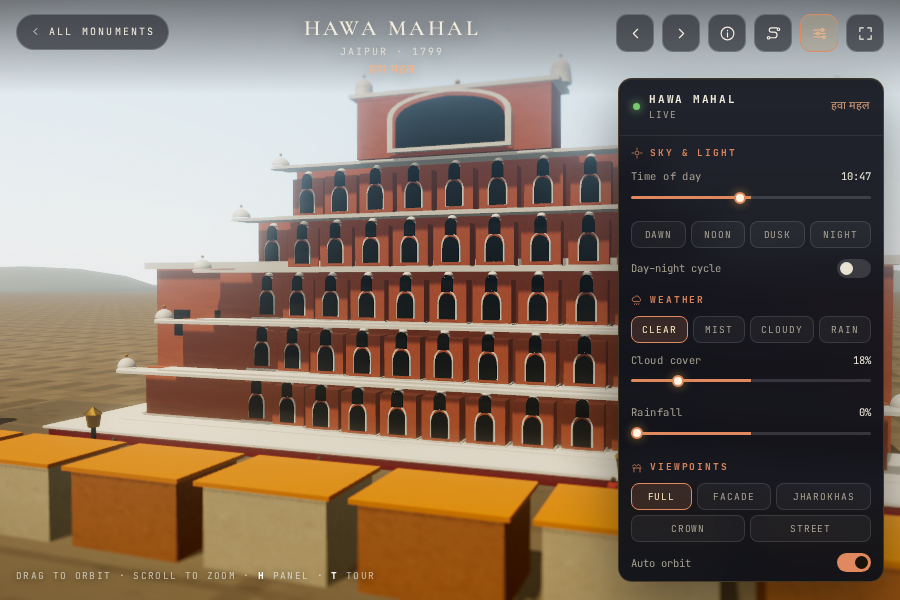
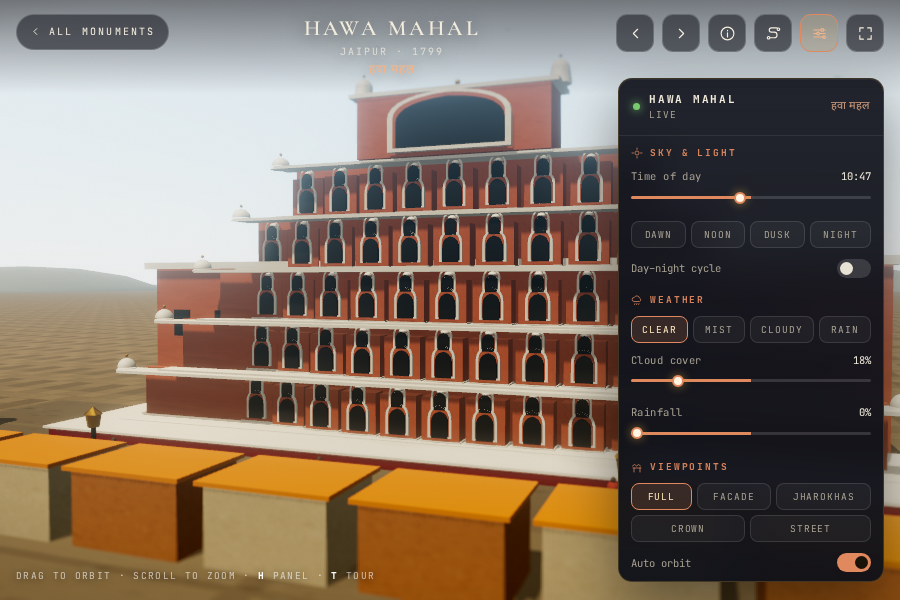
Lotus petals overlap, Somnath stone, Hawa surrounds
Lotus — petals widened to 2.75 / 2.45 / 2.10 m half-width so the three rings
overlap into a closed shell instead of standing apart, and the page is lit at
11:24 so the marble reads white rather than cream.

Somnath — the stone was sandstoneBuff under a warm key, which read as brick
red. Now granite with plasterWhite trim and basaltDark base, lit at 10:36: a
grey-brown Deccan spire, which is what the building is.

Hawa Mahal — white marble surrounds on both rows of openings, so the facade
reads as rows of arched windows in white trim, the lacework the building is
known for. Camera pulled back to hold the full 42 m screen.

Changed region(s): [[0.2489, 0.27, 0.6844, 0.75]]

diff --git a/assets/js/monuments/hawa-mahal.js b/assets/js/monuments/hawa-mahal.js
@@ -10,11 +10,11 @@ export default {
   bounds: 46,
   minDist: 12,
   maxDist: 180,
-  home: { pos: [12, 9, 32], target: [0, 8, -2], fov: 46 },
+  home: { pos: [4, 11, 50], target: [0, 9, -2], fov: 46 },
   ground: { texture: 'paving', size: 2400, color: 0xc8b79c },
   views: [
-    { name: 'Full', pos: [12, 9, 32], target: [0, 8, -2] },
-    { name: 'Facade', pos: [0, 8, 30], target: [0, 8, -2] },
+    { name: 'Full', pos: [4, 11, 50], target: [0, 9, -2] },
+    { name: 'Facade', pos: [0, 9, 46], target: [0, 9, -2] },
     { name: 'Jharokhas', pos: [7, 13, 16], target: [2, 12, 2] },
     { name: 'Crown', pos: [6, 21, 18], target: [0, 17, 2] },
     { name: 'Street', pos: [-24, 3.2, 22], target: [0, 8, 2] }
@@ -81,7 +81,8 @@ export default {
 
         // a screened arch below, a smaller one above
         add('dark', arch(0.86, 1.30, 0.18), x, y + 0.34, z + 0.46);
-        add('marble', archFrame(1.02, 1.46, 0.08, 0.10), x, y + 0.34, z + 0.44);
+        add('marble', archFrame(1.24, 1.62, 0.13, 0.14), x, y + 0.34, z + 0.44);
+        add('marble', archFrame(0.90, 1.16, 0.10, 0.12), x, y + 1.72, z + 0.44);
         add('dark', arch(0.60, 0.86, 0.14), x, y + 1.72, z + 0.46);
 
         // canopy and finial over each jharokha

diff --git a/assets/js/monuments/lotus-temple.js b/assets/js/monuments/lotus-temple.js
@@ -6,7 +6,7 @@ export default {
   accent: '#d8d2c4',
   accent2: '#f0e8d8',
   seed: 53,
-  time: 16.4,
+  time: 11.4,
   bounds: 70,
   minDist: 16,
   maxDist: 240,
@@ -150,9 +150,9 @@ export default {
        to a single point. */
     const BASE = 1.1;
     const RINGS = [
-      { R0: 14.2, Rmid: 18.4, Rtip: 10.8, H: 27.2, W: 2.10, cup: 0.38, thick: 0.26, rot: 0, mat: MARBLE },
-      { R0: 10.6, Rmid: 13.4, Rtip: 6.6, H: 29.4, W: 1.85, cup: 0.42, thick: 0.24, rot: Math.PI / 9, mat: MARBLE2 },
-      { R0: 6.8, Rmid: 8.6, Rtip: 1.6, H: 31.4, W: 1.60, cup: 0.46, thick: 0.22, rot: 0, mat: MARBLE }
+      { R0: 14.2, Rmid: 18.4, Rtip: 10.8, H: 27.2, W: 2.75, cup: 0.38, thick: 0.26, rot: 0, mat: MARBLE },
+      { R0: 10.6, Rmid: 13.4, Rtip: 6.6, H: 29.4, W: 2.45, cup: 0.42, thick: 0.24, rot: Math.PI / 9, mat: MARBLE2 },
+      { R0: 6.8, Rmid: 8.6, Rtip: 1.6, H: 31.4, W: 2.10, cup: 0.46, thick: 0.22, rot: 0, mat: MARBLE }
     ];
     RINGS.forEach((r) => {
       for (let i = 0; i < 9; i++) {

diff --git a/assets/js/monuments/somnath-temple.js b/assets/js/monuments/somnath-temple.js
@@ -6,7 +6,7 @@ export default {
   accent: '#d0b890',
   accent2: '#e8d0b0',
   seed: 107,
-  time: 17.4,
+  time: 10.6,
   bounds: 70,
   minDist: 18,
   maxDist: 260,
@@ -57,7 +57,7 @@ export default {
     const T3 = ctx.THREE;
     const { add, box, cyl, sph, cone, dome, onion, arch, archFrame, block, col, torus } = ctx;
 
-    const stone = 'sandstoneBuff', trim = 'marble', dark = 'granite';
+    const stone = 'granite', trim = 'plasterWhite', dark = 'basaltDark';
 
     /* ---- the terrace and steps -------------------------------------------- */
     block(dark, 62, 2.2, 54, 0, 0, 0);
